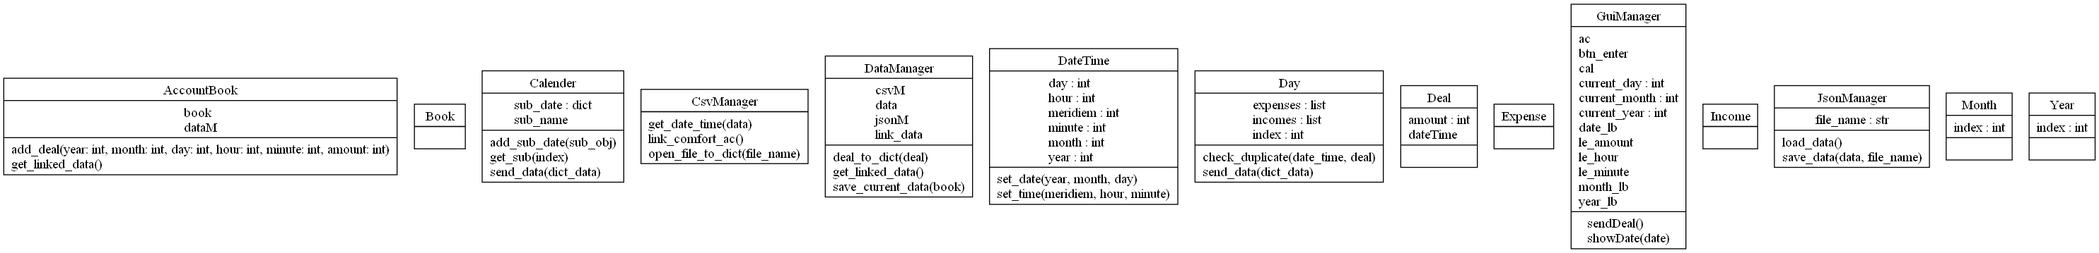
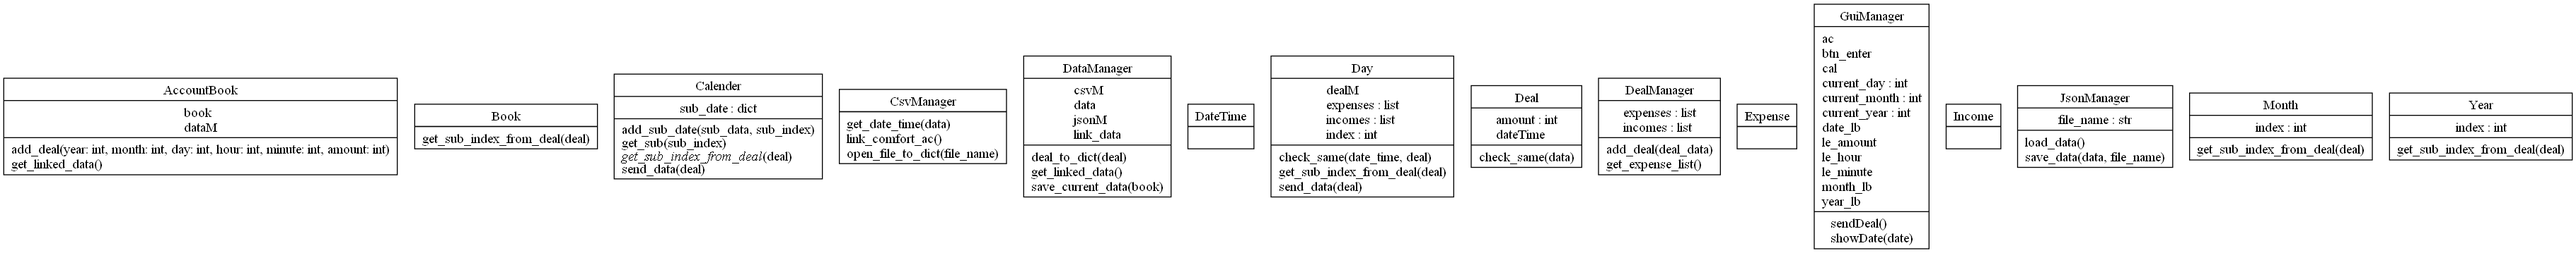
Created and refactring deal and guis.

diff --git a/GuiManager.py b/GuiManager.py
@@ -1,13 +1,15 @@
 from GuiWidgetHelper import *
+from PyQt5 import QtGui
 from PyQt5.QtCore import Qt, QDate
 from PyQt5.QtGui import QIcon
 import sys
 from AccountBook import AccountBook
+from Deal import Deal
 
 class GuiManager(QWidget):
-	current_year: int
-	current_month: int
-	current_day: int
+	select_year: int
+	select_month: int
+	select_day: int
 
 	def __init__(self):
 		super().__init__()
@@ -26,14 +28,16 @@ class GuiManager(QWidget):
 
 	def __initInputLayout(self):
 		vbox = QVBoxLayout()
-		vbox.addLayout(self.__createDateLabelLayout())
 		self.le_hour = createLineEdit(limit=QtGui.QIntValidator(self))
 		self.le_minute = createLineEdit(limit=QtGui.QIntValidator(self))
 		self.le_amount = createLineEdit(limit=QtGui.QIntValidator(self))
-		self.btn_enter = createPushBtn("Enter",self.sendDeal)
+		self.le_content = createLineEdit()
+		self.btn_enter = createPushBtn("Enter",self.send_deal)
+		vbox.addLayout(self.__createDateLabelLayout())
 		hour = createHbox([QLabel("시간: "),self.le_hour])
 		minute  = createHbox([QLabel("분: "),self.le_minute])
 		vbox.addLayout(createHbox([hour,minute]))
+		vbox.addLayout(createHbox([QLabel("내용: "),self.le_content]))
 		vbox.addLayout(createHbox([QLabel("금액: "),self.le_amount,self.btn_enter]))
 		return vbox
 
@@ -49,16 +53,31 @@ class GuiManager(QWidget):
 	
 #위젯과 연결된 함수
 	def showDate(self, date):
-		self.current_year = date.year()
-		self.current_month = date.month()
-		self.current_day = date.day()
-		self.year_lb.setText(str(self.current_year)+"년")
-		self.month_lb.setText(str(self.current_month)+"월")
-		self.date_lb.setText(str(self.current_day)+"일")
+		self.select_year = date.year()
+		self.select_month = date.month()
+		self.select_day = date.day()
+		self.year_lb.setText(str(self.select_year)+"년")
+		self.month_lb.setText(str(self.select_month)+"월")
+		self.date_lb.setText(str(self.select_day)+"일")
 
-	def sendDeal(self):
-		self.ac.add_deal(self.current_year,self.current_month,self.current_day,int(self.le_hour.text()),int(self.le_minute.text()),int(self.le_amount.text()))
+	def send_deal(self):
+		new_deal = Deal()
+		new_deal.dt.set_date(self.select_year,self.select_month,self.select_day)
+		new_deal.dt.set_time(self.get_hour(),self.get_minute)
+		new_deal.content = self.get_content()
+		new_deal.amount = self.get_amount()
+		self.ac.add_deal(new_deal)
 
+#gui에서 데이터 가져오기
+	def get_hour(self): return self.get_line_edit_text_to_int(self.le_hour)
+	def get_minute(self): return self.get_line_edit_text_to_int(self.le_minute)
+	def get_amount(self): return self.get_line_edit_text_to_int(self.le_amount)
+	def get_content(self): return self.le_content.text()
+#helper functions
+	def get_line_edit_text_to_int(self,le):
+		 #line edit에 적힌 값을 int로 가져온다. 값이 없을 경우 모두 0으로 통일
+		if le.text() == "": return 0
+		return int(le.text())
 
 #기타 gui 함수(길어서 빼뒀음)
 	#날짜 변경하면 라벨과 현재 날짜 저장하는 변수 생성

diff --git a/AccountBook.py b/AccountBook.py
@@ -6,18 +6,21 @@ class AccountBook():
 	def __init__(self) -> None:
 		self.dataM = DataManager()
 		self.book = Book()
-		self.get_linked_data()
+		#self.get_linked_data()
 		#self.dataM.save_current_data(self.book)
 
 	def add_deal(self,year:int,month:int,day:int,hour:int,minute:int,amount:int):
 		new_deal = Deal()
-		new_deal.dateTime.year = year
-		new_deal.dateTime.month = month
-		new_deal.dateTime.day = day
-		new_deal.dateTime.hour = hour
-		new_deal.dateTime.minute = minute
+		new_deal.dt.year = year
+		new_deal.dt.month = month
+		new_deal.dt.day = day
+		new_deal.dt.hour = hour
+		new_deal.dt.minute = minute
 		new_deal.amount = amount
-		self.book.send_data(new_deal,self.book)
+		self.book.send_data(new_deal)
+	
+	def add_deal(self,new_deal):
+		self.book.send_data(new_deal)
 
 	def get_linked_data(self): #코드 좆같이 짜놨네
 		linked_data = self.dataM.get_linked_data()

diff --git a/GuiWidgetHelper.py b/GuiWidgetHelper.py
@@ -1,30 +1,23 @@
 
 from PyQt5.QtWidgets import *
-from PyQt5 import QtGui
 
+#push 버튼 위젯 만들어준다
 def createPushBtn(name, func):
 	btn = QPushButton(name)
 	btn.clicked.connect(func)
 	return btn
 
+#라인 에딧 위젯 만들어준다
 def createLineEdit(limit = None):
 	line_edit = QLineEdit()
 	if limit != None: line_edit.setValidator(limit)
 	return line_edit
 
+#hbox에 위젯이나 레이아웃을 차곡차곡 넣어서 리턴해줌
 def createHbox(items = []):
 	hbox = QHBoxLayout()
 	for item in items:
 		if item.isWidgetType():
 			hbox.addWidget(item)
 		else: hbox.addLayout(item)
-	return hbox
-
-def createLabelAndLineEditLayout(label_content:str,limit):
-	label = QLabel(label_content)
-	line_edit = createLineEdit(limit)
-
-	hbox = QHBoxLayout()
-	hbox.addWidget(label)
-	hbox.addWidget(line_edit)
 	return hbox

diff --git a/DataManager.py b/DataManager.py
@@ -23,11 +23,11 @@ class DataManager():
 	
 	def deal_to_dict(self,deal):
 		result = {}
-		result["year"] = deal.dateTime.year
-		result["month"] = deal.dateTime.month
-		result["day"] = deal.dateTime.day
-		result["meridiem"] = deal.dateTime.meridiem
-		result["hour"] = deal.dateTime.hour
-		result["minute"] = deal.dateTime.minute
+		result["year"] = deal.dt.year
+		result["month"] = deal.dt.month
+		result["day"] = deal.dt.day
+		result["meridiem"] = deal.dt.meridiem
+		result["hour"] = deal.dt.hour
+		result["minute"] = deal.dt.minute
 		result["amount"] = deal.amount
 		return result

diff --git a/Deal.py b/Deal.py
@@ -1,12 +1,13 @@
 from DateTime import DateTime
 
 class Deal():
-	amount: int #금액
 	def __init__(self) -> None:
-		self.dateTime = DateTime() #시간
+		self.amount = 0#금액
+		self.dt = DateTime() #시간
+		self.content = "" #내용
 	
 	def check_same(self, data): 
-		if self.dateTime.check_same(data.dateTime) == False: return False
+		if self.dt.check_same(data.dt) == False: return False
 		if self.amount != data.amount: return False
 		return True
 	

diff --git a/Book.py b/Book.py
@@ -5,7 +5,7 @@ from Calender import Calender
 class Book(Calender):
 	def __init__(self) -> None:
 		super().__init__()
-		self.add_sub_date(Year(2024))
+		self.add_sub_date(Year(2024),2024)
 
 	def get_sub_index_from_deal(self, deal):
-		return deal.year
+		return deal.dt.year

diff --git a/Month.py b/Month.py
@@ -6,8 +6,8 @@ class Month(Calender):
 		self.index = index #현재 월
 		super().__init__()
 		for i in range(1,32):
-			self.add_sub_date(Day(i))
+			self.add_sub_date(Day(i),i)
 
 	def get_sub_index_from_deal(self, deal):
-		return deal.day
+		return deal.dt.day
 	

diff --git a/Year.py b/Year.py
@@ -6,8 +6,8 @@ class Year(Calender):
 		self.index = year
 		super().__init__()
 		for i in range(1,13):
-			self.add_sub_date(Month(i))
+			self.add_sub_date(Month(i),i)
 
 	def get_sub_index_from_deal(self, deal):
-		return deal.month
+		return deal.dt.month
 		

diff --git a/Day.py b/Day.py
@@ -12,7 +12,7 @@ class Day(Calender):
 
 	#하위 오브젝트 없어서 send 끝나고 걍 저장함
 	def send_data(self,deal): 
-		print("sended")
+		print(deal)
 
 	def get_sub_index_from_deal(self, deal):
 		return None

diff --git a/CsvManager.py b/CsvManager.py
@@ -1,5 +1,4 @@
 import csv
-from Deal import Deal #임시..
 
 class CsvManager():
 	def __init__(self) -> None:
